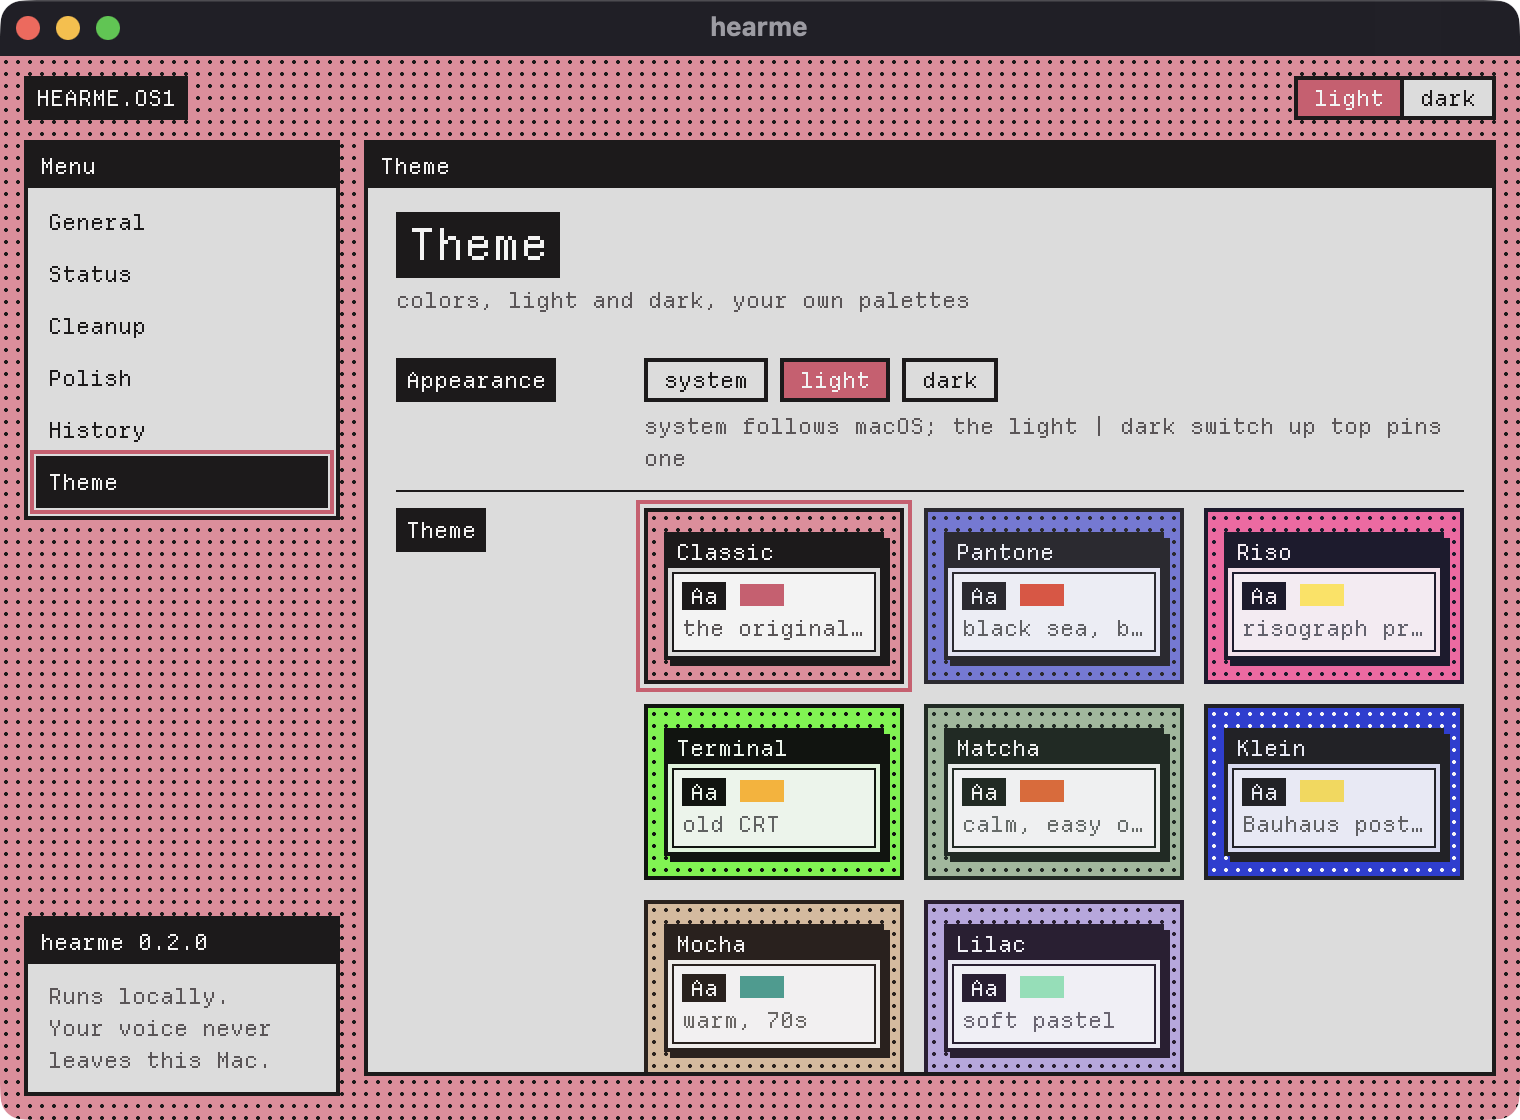
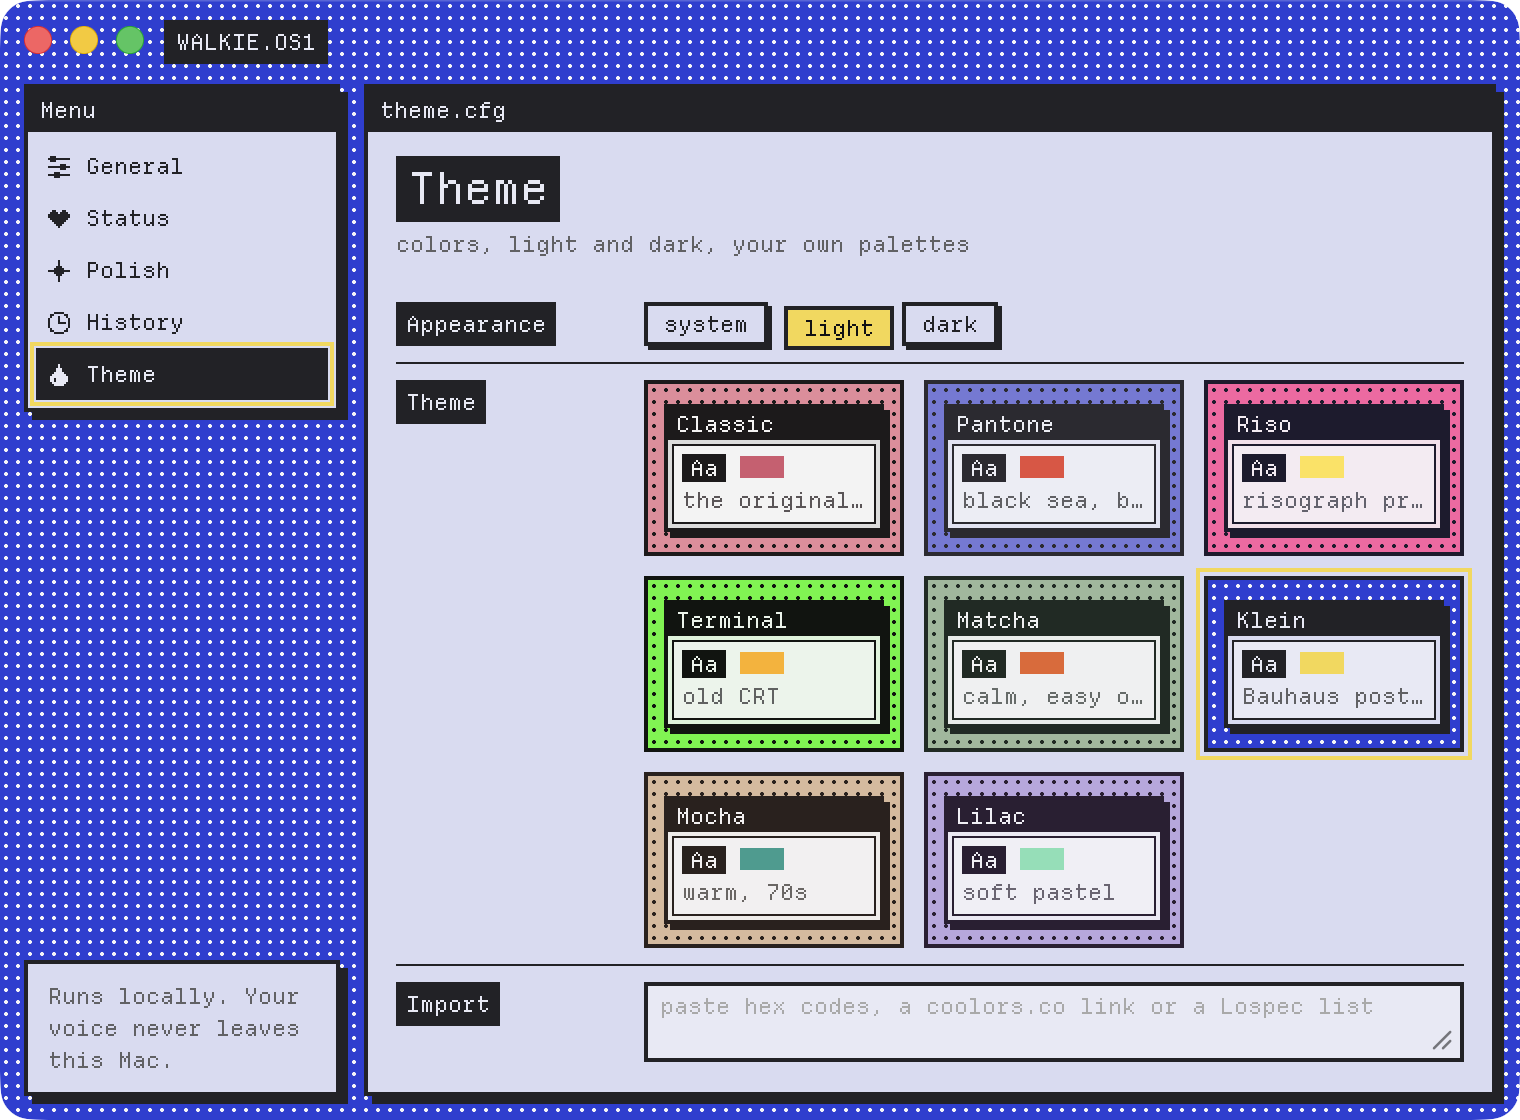
readme: fresh Settings screenshot of the current UI

diff --git a/README.md b/README.md
@@ -5,7 +5,7 @@ the text is typed into whatever window has focus: Claude Code, Cursor, a
 browser, anything. Whisper runs on your Mac; your voice never leaves it.
 
 <p align="center">
-  <img src="docs/settings.png" width="640" alt="walkie's Settings window: a dotted pink desktop with small pixel-font windows">
+  <img src="docs/settings.png" width="640" alt="walkie's Settings window on the Theme page: a dotted blue desktop with small pixel-font windows">
 </p>
 
 ## Install
